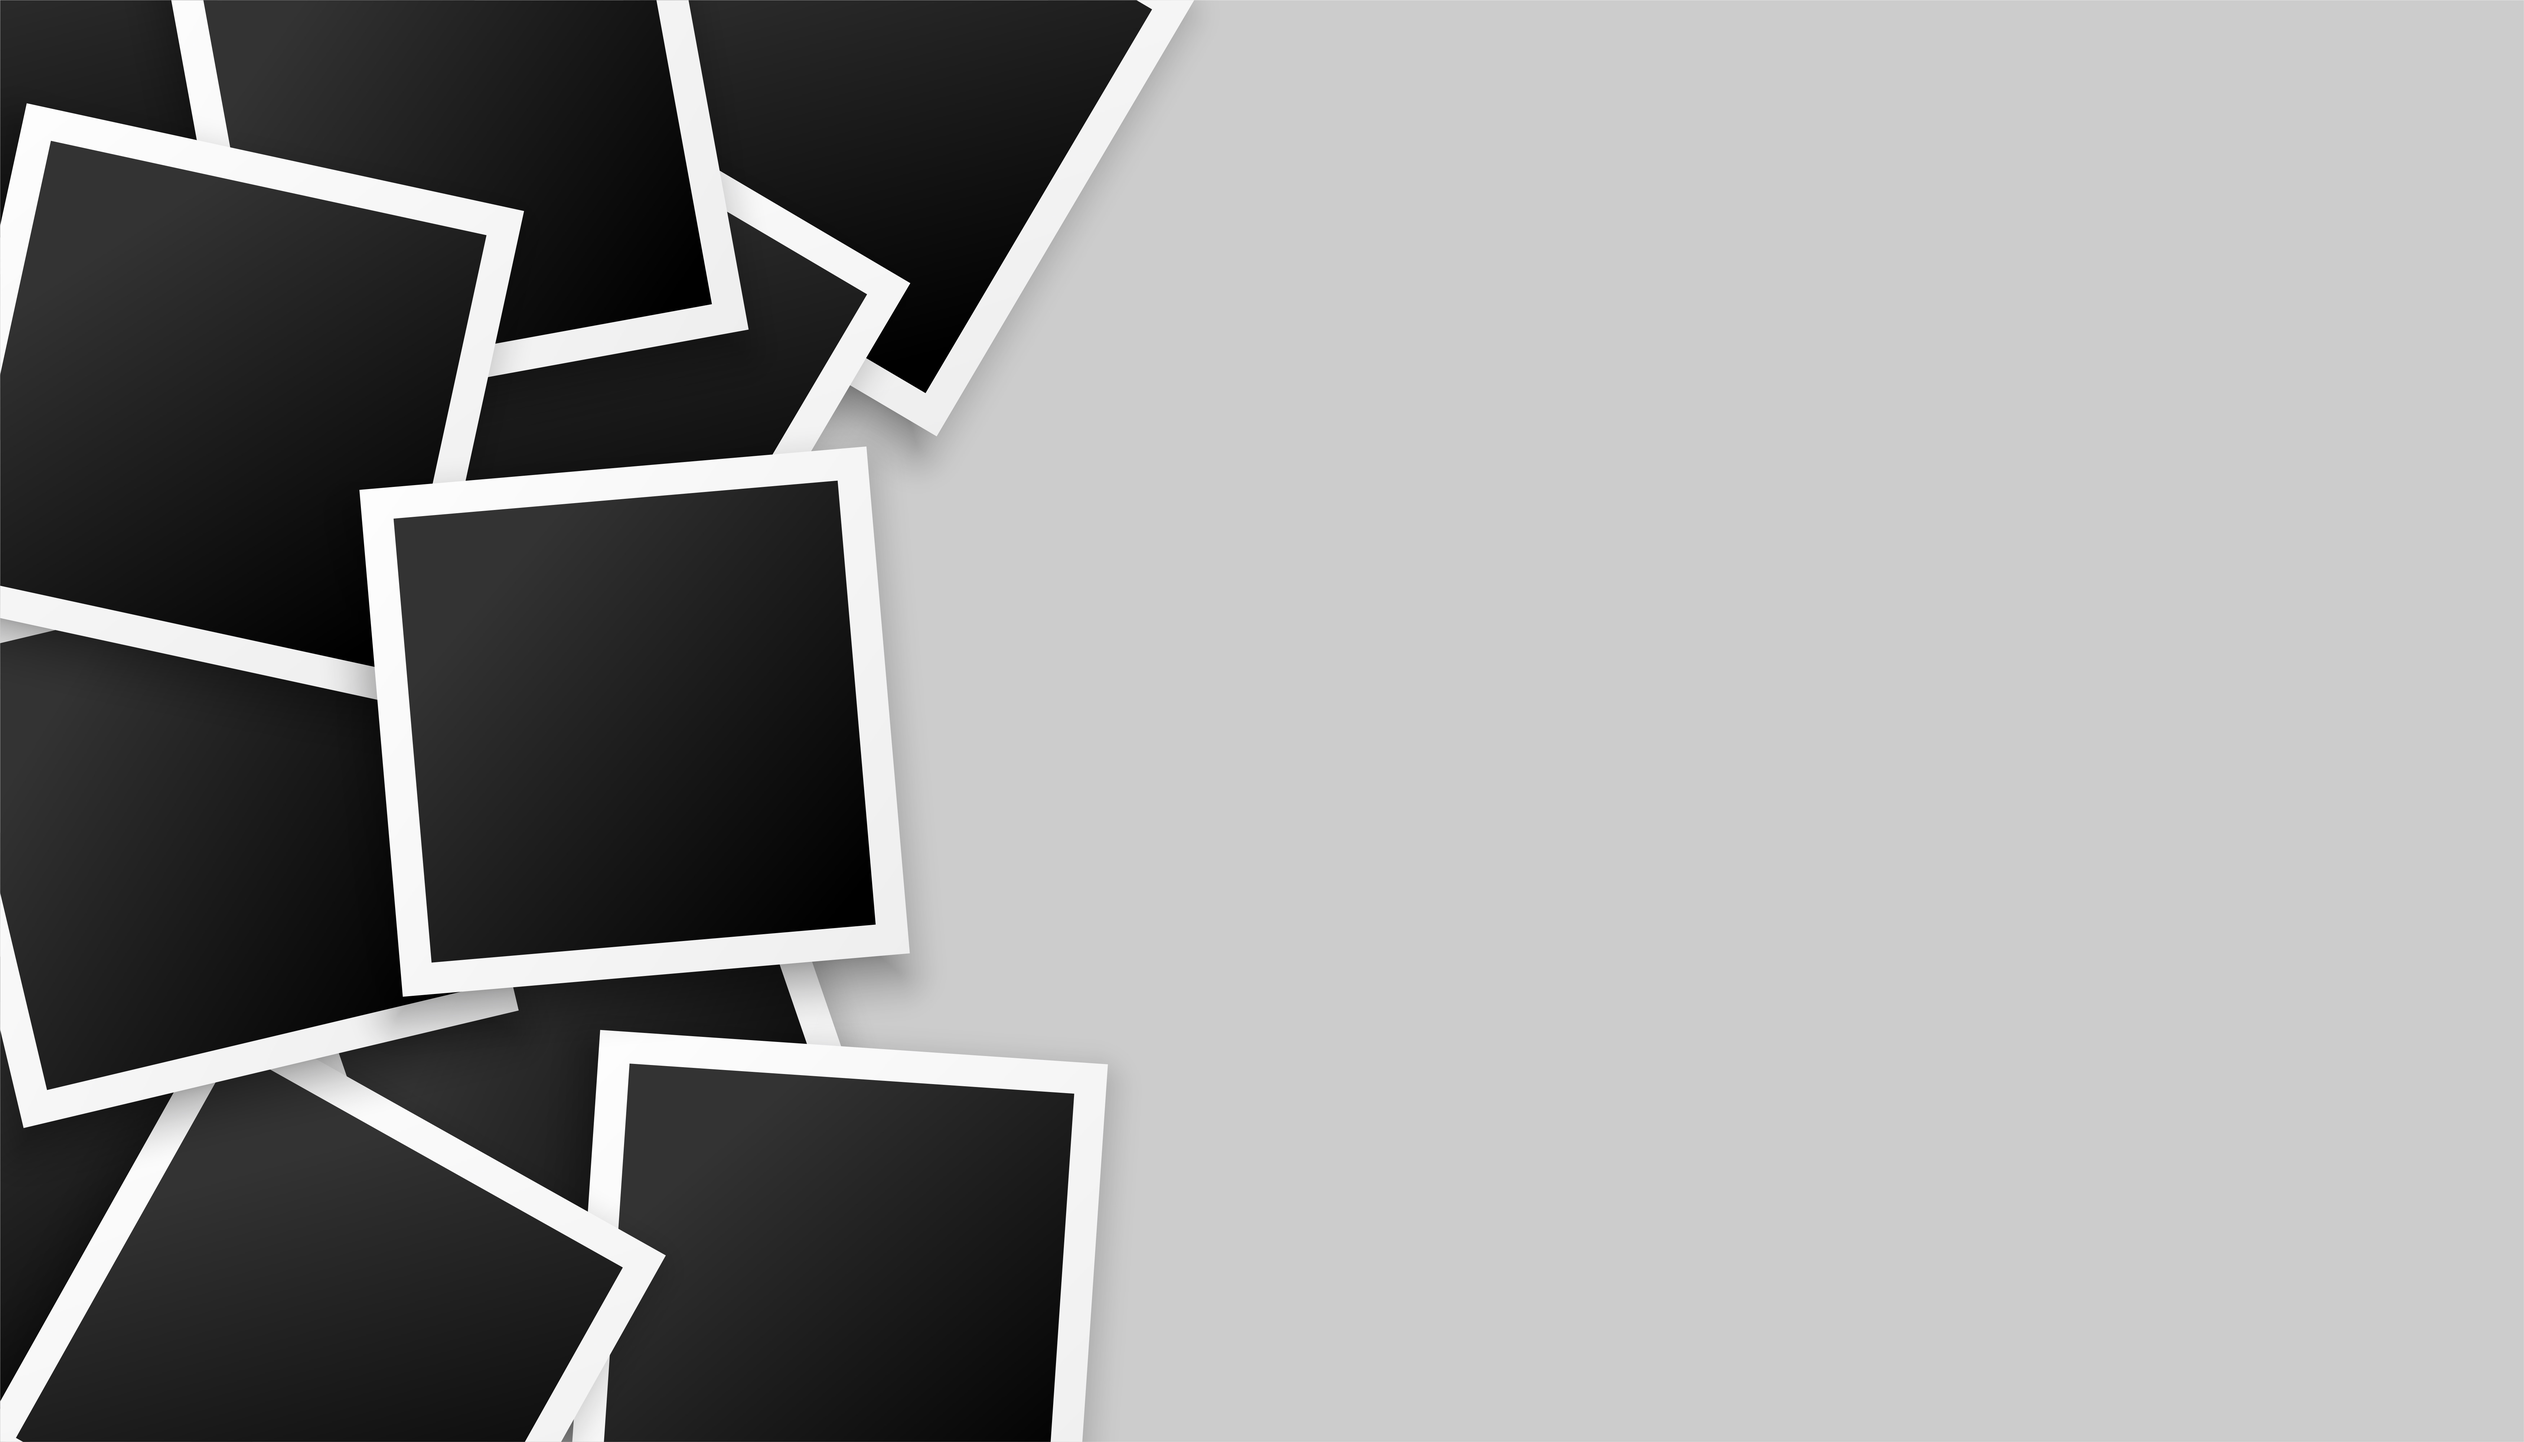
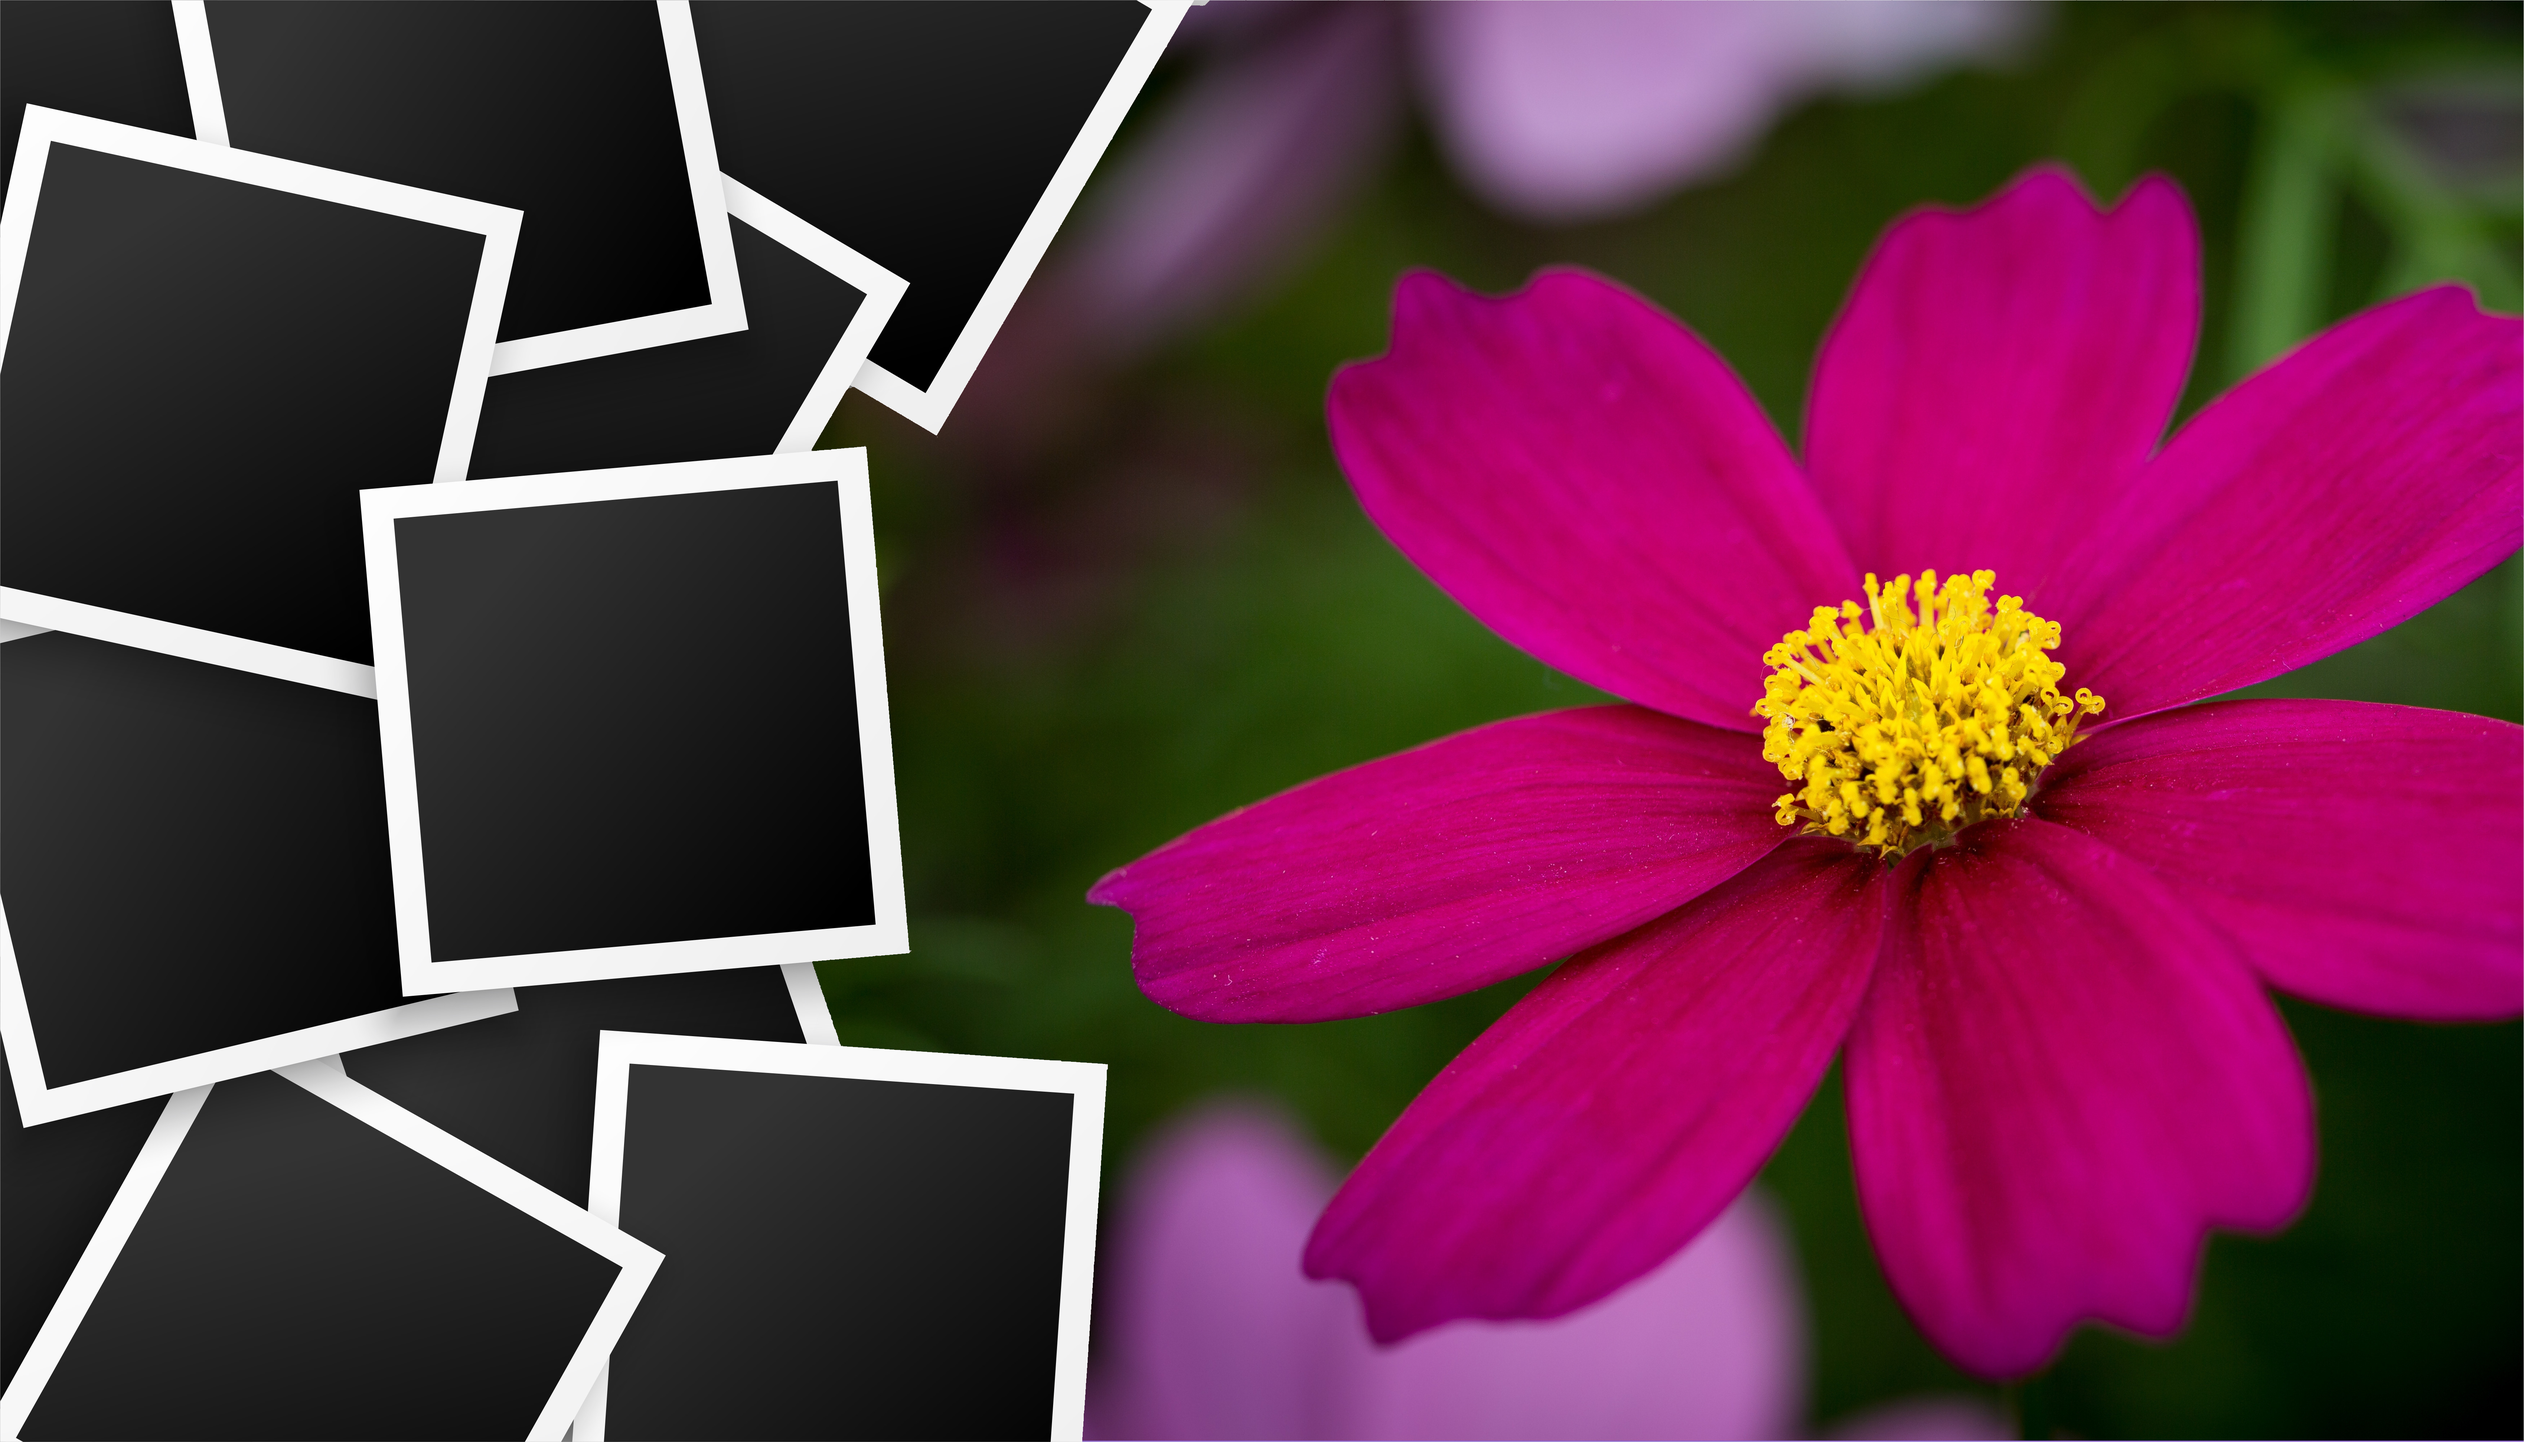
Cont Features terminado

diff --git a/src/components/Content.js b/src/components/Content.js
@@ -1,5 +1,10 @@
 import about_img from "../img/about.jpg";
 import gallery_img from "../img/gallery.svg";
+import archive_img from "../img/archive.png";
+import device_img from "../img/device.png";
+import format_img from "../img/format.png";
+import view_img from "../img/view.png";
+import fea_img from "../img/features.jpg";
 
 import React from "react";
 import { Col, Container, Row } from "react-bootstrap";
@@ -17,11 +22,11 @@ export default class Content extends React.Component{
         return(
             <Container fluid className="content_body">
                 <Row className="body_about">
-                <img className="img_style" src={about_img} alt="about"/>
+                    <img className="bg_about_img" src={about_img} alt="about"/>
                     <Col className="col_flex" xs={12} sm={11} md={11}>
                         <Col sm={6} md={5} className="cont_about">
                             <div className="cont_img_about">
-                                <img className="img_style2" src={gallery_img} alt="gallery"/>
+                                <img className="img_style2" src={gallery_img} alt="galeria"/>
                             </div>
                             <p className="text_about">
                                 Guarda tus imagenes favoritas de una manera facil y eficiente
@@ -31,17 +36,43 @@ export default class Content extends React.Component{
                         </Col>                        
                     </Col>
                 </Row>
-                <Row className="content_features">
-                    <Col>
-
+                <Row className="body_features">
+                <img className="bg_fea_img" src={fea_img} alt="about"/>
+                    <Col sm={6} lg={3}>
+                        <img className="img_style3" src={archive_img} alt="archivo" />
+                        <p className="title_fea">Protege</p>
+                        <p className="text_features">
+                            Manten protegidas tus imagenes con PhotoBlog contra la
+                            perdida de datos. Una vez almacena la imagen en tu galeria
+                            nunca la perderas de vista.
+                        </p>
                     </Col>
-
-                    <Col>
-
+                    <Col sm={6} lg={3}>
+                        <img className="img_style3" src={view_img} alt="vista" />
+                        <p className="title_fea">Galeria</p>
+                        <p className="text_features">
+                            Disfruta de una elegante galeria donde podras visualizar
+                            todas las imagenes que has subido a una excelente calidad
+                        </p>
                     </Col>
+                    <Col sm={6} lg={3}>
+                        <img className="img_style3" src={device_img} alt="dispositivo" />
+                        <p className="title_fea">Compatibilidad</p>
 
-                    <Col>
-                        
+                        <p className="text_features">
+                            PhotoBlog al ser una aplicacion web esta disponible para
+                            todo dispositivo que contenga un navegador instalado asi que
+                            podras acceder a tus imagenes desde tu pc, telefono, smartTv
+                            y muchos dispositivos mas.
+                        </p> 
+                    </Col>
+                    <Col sm={6} lg={3}>
+                        <img className="img_style3" src={format_img} alt="formato" />
+                        <p className="title_fea">Diferentes formatos</p>
+                        <p className="text_features">
+                            Sube diferentes tipos de archivos de imagenes gracias a la
+                            gran compatibilidad con los diferentes formatos que admite PhotoBlog
+                        </p>
                     </Col>
                 </Row>
             </Container>

diff --git a/src/css/style.css b/src/css/style.css
@@ -10,7 +10,6 @@
 /* HEADER */
 
 .content_header{
-    position: relative;
     z-index: 10;
 }
 
@@ -43,22 +42,40 @@
 
 .content_body{
     padding: 0 !important;
+    margin-top: 63px;
 }
 
 .body_about{
     height: calc(100vh - 64px);
 }
 
-.img_style{
+.body_features{
+    height: calc(100vh - 64px);
+}
+
+.bg_about_img{
     width: 100%;
     right: 0;
     position: absolute;
     height: calc(100vh - 64px);
 }
 
+.bg_fea_img{
+    width: 100%;
+    right: 0;
+    position: absolute;
+    height: 50vh;
+    align-self: flex-end;
+}
+
 .img_style2{
     width: 50%;
     
+}
+
+.img_style3{
+    width: 50%;
+    margin: 20px;
 }
 
 .cont_about{
@@ -85,6 +102,17 @@
     padding: 10px;
 }
 
+.text_features{
+    text-align: justify;
+    color: #000000;
+    padding: 0px 10px;
+}
+
+.title_fea{
+    font-weight: 900;
+    color: #4f3755;
+}
+
 .row{
     margin-right: 0px !important;
 }
@@ -100,6 +128,13 @@
     align-items: center;
 }
 
+.body_features div{
+    display: flex;
+    flex-direction: column;
+    align-items: center !important;
+    margin-top: 10px;
+    height: calc(100vh - 64px);
+}
 
 
 /* FOOTER */

diff --git a/src/components/Header.js b/src/components/Header.js
@@ -9,7 +9,7 @@ export default function Header(props) {
 
     return(
         <header className="content_header">
-            <Navbar expand="sm" className="nav_content">
+            <Navbar fixed="top" expand="sm" className="nav_content">
                 <Navbar.Brand href="#home">
                     <img
                         alt="logo"
